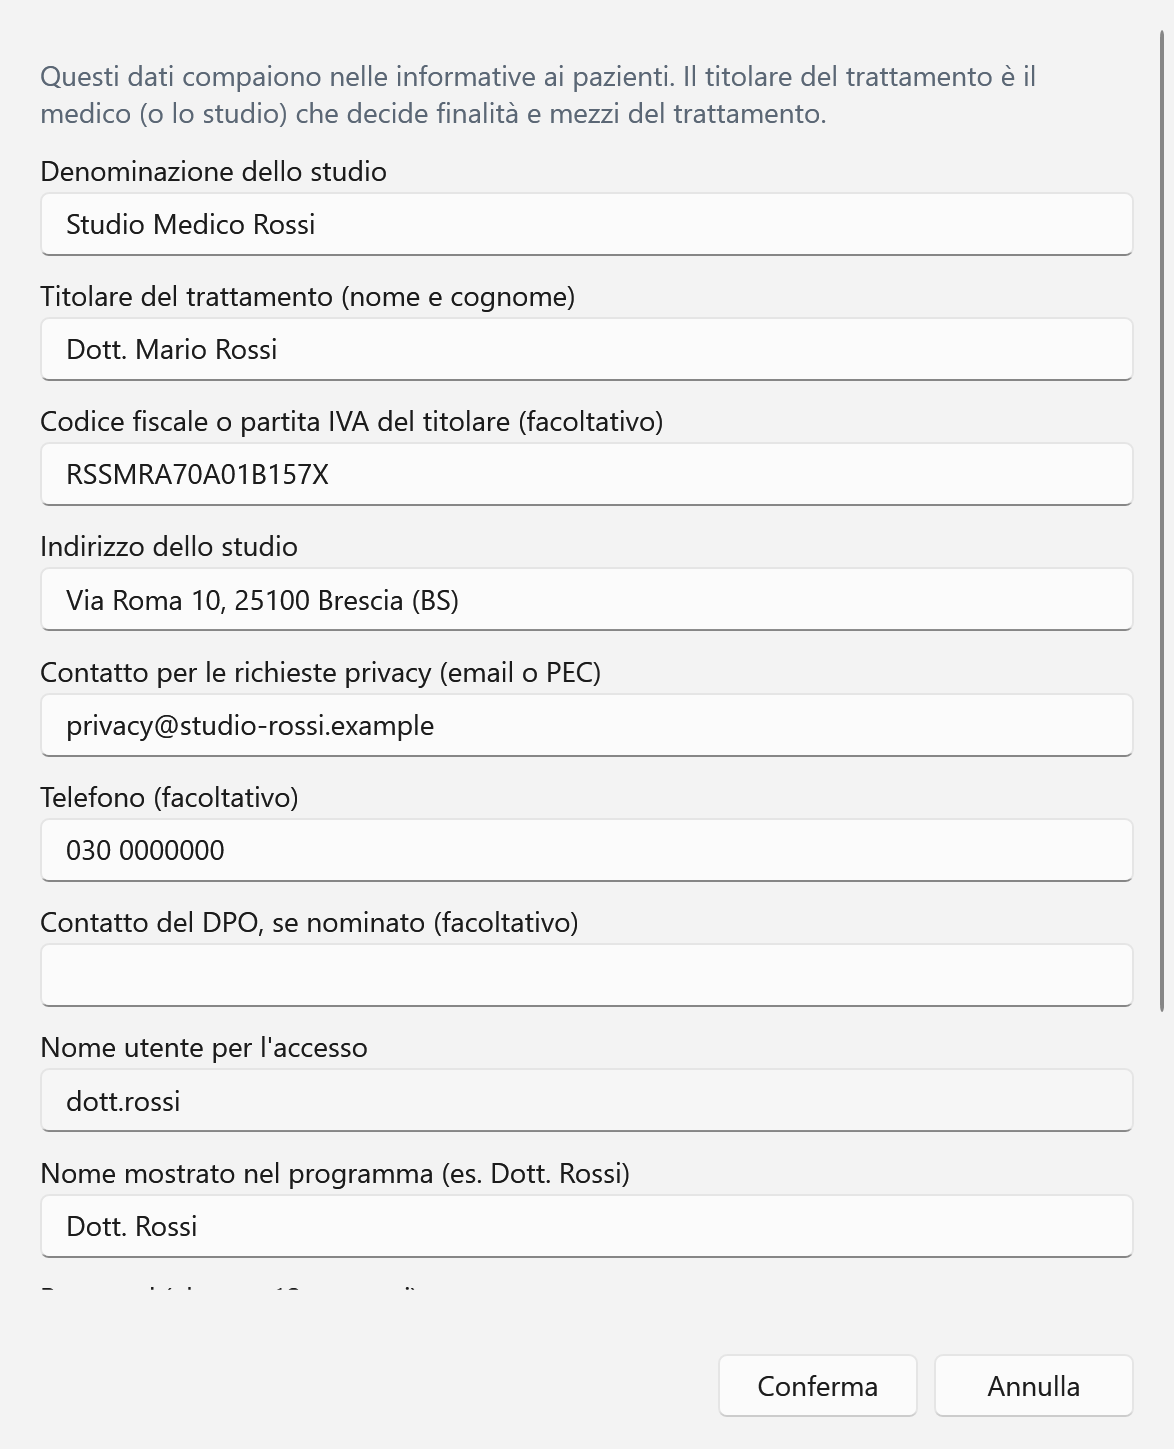
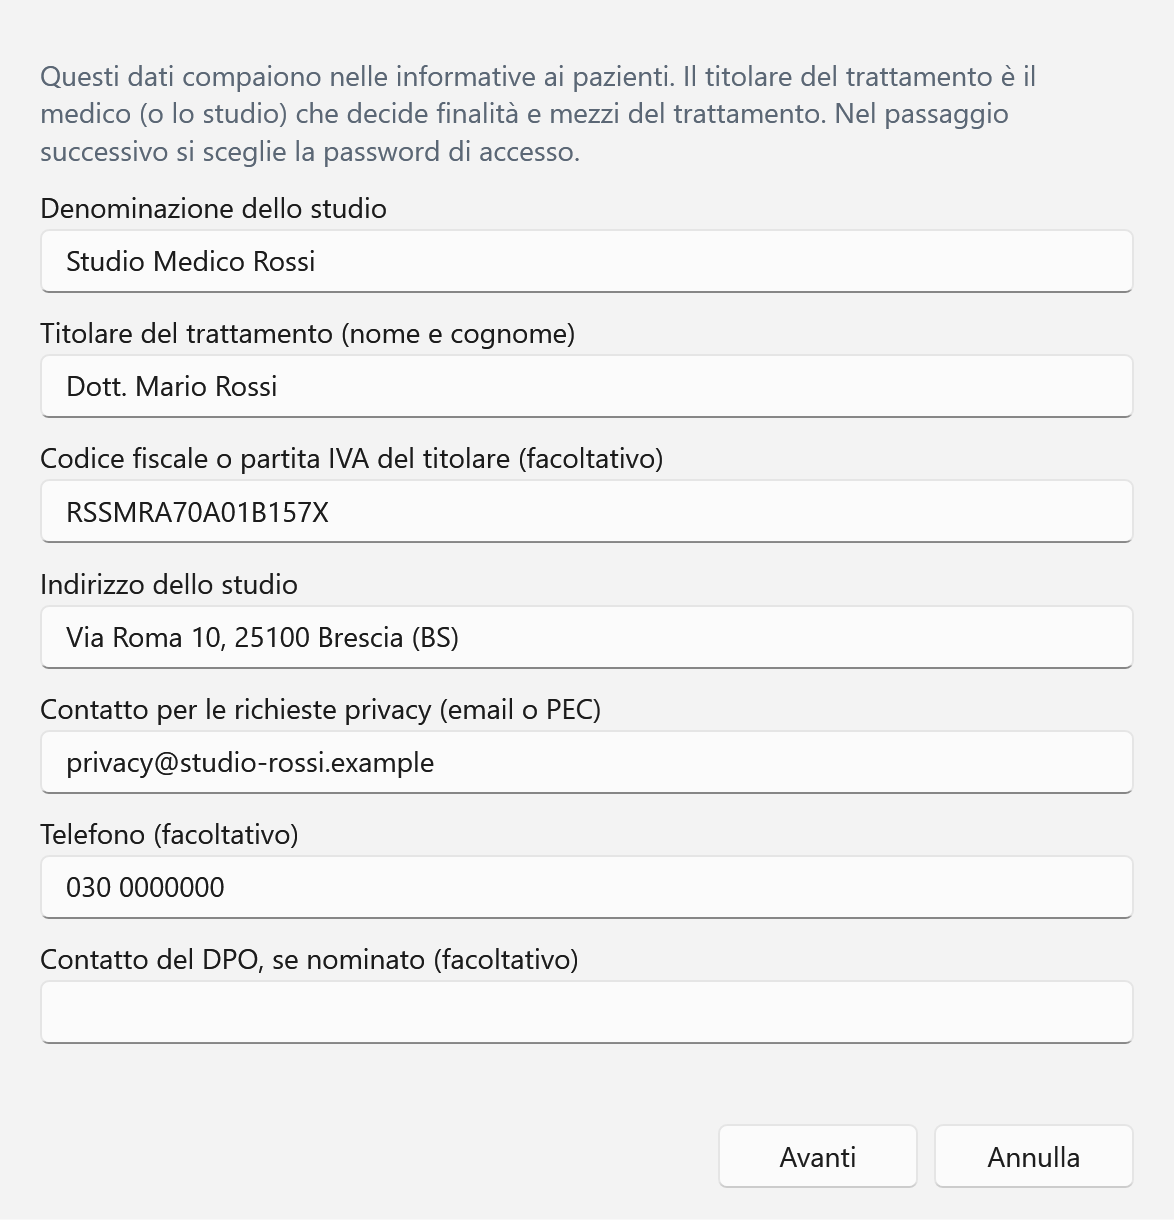
Setup: casella «Mostra la password» sotto il secondo campo

diff --git a/src/Privacy.App/SetupWindow.cs b/src/Privacy.App/SetupWindow.cs
@@ -41,9 +41,8 @@ public sealed class SetupWindow : DialogForm
             AddNote("Scegli il nome utente e la password con cui il medico entra nel programma. La password deve avere almeno 12 caratteri. Non esiste un modo per recuperarla se dimenticata: annotarla in un luogo sicuro.");
             User = AddText("Nome _utente per l'accesso");
             DisplayName = AddText("Nome mostrato nel programma (es. Dott. Rossi)");
-            Pass = AddPassword("_Password (almeno 12 caratteri)", withToggle: true);
-            Pass2 = AddPassword("_Ripetere la password", withToggle: false, linked: Pass);
-            Pass.SetLinked(Pass2);
+            Pass = AddPassword("_Password (almeno 12 caratteri)", withToggle: false);
+            Pass2 = AddPassword("_Ripetere la password", withToggle: true, linked: Pass);   // la casella sotto il secondo campo mostra entrambe
             AddNote("Dopo il primo accesso conviene esportare le chiavi di recupero (scheda Backup).");
             OkText = "_Crea lo studio";
             StayOpenOnce();
